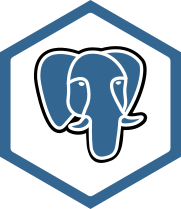
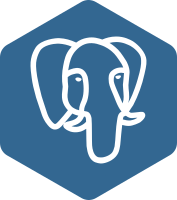
trocar de imagens

diff --git a/README.md b/README.md
@@ -1,20 +1,84 @@
-### Hi there 👋
+### Hi there, I'm Jesse - aka [codeSTACKr][website] 👋
+
+[![Website](https://img.shields.io/website?label=codeSTACKr.com&style=for-the-badge&url=https%3A%2F%2Fcodestackr.com)](https://codestackr.com)
+[![Twitter Follow](https://img.shields.io/twitter/follow/codeSTACKr?color=1DA1F2&logo=twitter&style=for-the-badge)](https://twitter.com/intent/follow?original_referer=https%3A%2F%2Fgithub.com%2FcodeSTACKr&screen_name=codeSTACKr)
+
+## I'm a Husband, Father, Developer, and Teacher!!
+
+- 🔭 I just launched my first course: [Become A VS Code SuperHero!][course]!
+- 🌱 I’m currently learning everything 🤣
+- 👯 I’m looking to collaborate with other content creators
+- 🥅 2020 Goals: Contribute more to Open Source projects
+- ⚡ Fun fact: I love to draw and play guitar / drums
+
+### Spotify Playing 🎧
+
+[<img src="https://now-playing-codestackr.vercel.app/api/spotify-playing" alt="codeSTACKr Spotify Playing" width="350" />](https://open.spotify.com/user/swyqyimdc12jajde4vpwd2x1b)
+
+### Connect with me:
+
+[<img align="left" alt="codeSTACKr.com" width="22px" src="https://raw.githubusercontent.com/iconic/open-iconic/master/svg/globe.svg" />][website]
+[<img align="left" alt="codeSTACKr | YouTube" width="22px" src="https://cdn.jsdelivr.net/npm/simple-icons@v3/icons/youtube.svg" />][youtube]
+[<img align="left" alt="codeSTACKr | Twitter" width="22px" src="https://cdn.jsdelivr.net/npm/simple-icons@v3/icons/twitter.svg" />][twitter]
+[<img align="left" alt="codeSTACKr | LinkedIn" width="22px" src="https://cdn.jsdelivr.net/npm/simple-icons@v3/icons/linkedin.svg" />][linkedin]
+[<img align="left" alt="codeSTACKr | Instagram" width="22px" src="https://cdn.jsdelivr.net/npm/simple-icons@v3/icons/instagram.svg" />][instagram]
+
+<br />
+
+### Languages and Tools:
+
+[<img align="left" alt="Visual Studio Code" width="26px" src="https://raw.githubusercontent.com/github/explore/80688e429a7d4ef2fca1e82350fe8e3517d3494d/topics/visual-studio-code/visual-studio-code.png" />][webdevplaylist]
+[<img align="left" alt="HTML5" width="26px" src="https://raw.githubusercontent.com/github/explore/80688e429a7d4ef2fca1e82350fe8e3517d3494d/topics/html/html.png" />][webdevplaylist]
+[<img align="left" alt="CSS3" width="26px" src="https://raw.githubusercontent.com/github/explore/80688e429a7d4ef2fca1e82350fe8e3517d3494d/topics/css/css.png" />][cssplaylist]
+[<img align="left" alt="Sass" width="26px" src="https://raw.githubusercontent.com/github/explore/80688e429a7d4ef2fca1e82350fe8e3517d3494d/topics/sass/sass.png" />][cssplaylist]
+[<img align="left" alt="JavaScript" width="26px" src="https://raw.githubusercontent.com/github/explore/80688e429a7d4ef2fca1e82350fe8e3517d3494d/topics/javascript/javascript.png" />][jsplaylist]
+[<img align="left" alt="React" width="26px" src="https://raw.githubusercontent.com/github/explore/80688e429a7d4ef2fca1e82350fe8e3517d3494d/topics/react/react.png" />][reactplaylist]
+[<img align="left" alt="Gatsby" width="26px" src="https://raw.githubusercontent.com/github/explore/e94815998e4e0713912fed477a1f346ec04c3da2/topics/gatsby/gatsby.png" />][webdevplaylist]
+[<img align="left" alt="GraphQL" width="26px" src="https://raw.githubusercontent.com/github/explore/80688e429a7d4ef2fca1e82350fe8e3517d3494d/topics/graphql/graphql.png" />][webdevplaylist]
+[<img align="left" alt="Node.js" width="26px" src="https://raw.githubusercontent.com/github/explore/80688e429a7d4ef2fca1e82350fe8e3517d3494d/topics/nodejs/nodejs.png" />][webdevplaylist]
+[<img align="left" alt="Deno" width="26px" src="https://raw.githubusercontent.com/github/explore/361e2821e2dea67711cde99c9c40ed357061cf27/topics/deno/deno.png" />][webdevplaylist]
+[<img align="left" alt="SQL" width="26px" src="https://raw.githubusercontent.com/github/explore/80688e429a7d4ef2fca1e82350fe8e3517d3494d/topics/sql/sql.png" />][webdevplaylist]
+[<img align="left" alt="MySQL" width="26px" src="https://raw.githubusercontent.com/github/explore/80688e429a7d4ef2fca1e82350fe8e3517d3494d/topics/mysql/mysql.png" />][webdevplaylist]
+[<img align="left" alt="MongoDB" width="26px" src="https://raw.githubusercontent.com/github/explore/80688e429a7d4ef2fca1e82350fe8e3517d3494d/topics/mongodb/mongodb.png" />][webdevplaylist]
+[<img align="left" alt="Git" width="26px" src="https://raw.githubusercontent.com/github/explore/80688e429a7d4ef2fca1e82350fe8e3517d3494d/topics/git/git.png" />][webdevplaylist]
+[<img align="left" alt="GitHub" width="26px" src="https://raw.githubusercontent.com/github/explore/78df643247d429f6cc873026c0622819ad797942/topics/github/github.png" />][webdevplaylist]
+[<img align="left" alt="Terminal" width="26px" src="https://raw.githubusercontent.com/github/explore/80688e429a7d4ef2fca1e82350fe8e3517d3494d/topics/terminal/terminal.png" />][webdevplaylist]
+
+<br />
+<br />
+
+
+<details>
+  <summary>:zap: Recent GitHub Activity</summary>
+  
+<!--START_SECTION:activity-->
+1. 💪 Opened PR [#259](https://github.com/florinpop17/app-ideas/pull/259) in [florinpop17/app-ideas](https://github.com/florinpop17/app-ideas)
+2. 🎉 Merged PR [#13](https://github.com/codeSTACKr/codeSTACKr/pull/13) in [codeSTACKr/codeSTACKr](https://github.com/codeSTACKr/codeSTACKr)
+3. 💪 Opened PR [#13](https://github.com/codeSTACKr/codeSTACKr/pull/13) in [codeSTACKr/codeSTACKr](https://github.com/codeSTACKr/codeSTACKr)
+4. 🎉 Merged PR [#12](https://github.com/codeSTACKr/codeSTACKr/pull/12) in [codeSTACKr/codeSTACKr](https://github.com/codeSTACKr/codeSTACKr)
+5. 💪 Opened PR [#12](https://github.com/codeSTACKr/codeSTACKr/pull/12) in [codeSTACKr/codeSTACKr](https://github.com/codeSTACKr/codeSTACKr)
+<!--END_SECTION:activity-->
+
+</details>
+
+<details>
+  <summary>:zap: GitHub Stats</summary>
+
+  <img align="left" alt="codeSTACKr's GitHub Stats" src="https://github-readme-stats.codestackr.vercel.app/api?username=codeSTACKr&show_icons=true&hide_border=true" />
+
+</details>
+
+[website]: https://codeSTACKr.com
+[course]: http://vsCodeHero.com
+[twitter]: https://twitter.com/codeSTACKr
+[youtube]: https://youtube.com/codeSTACKr
+[instagram]: https://instagram.com/codeSTACKr
+[linkedin]: https://linkedin.com/in/codeSTACKr
+[webdevplaylist]: https://www.youtube.com/playlist?list=PLkwxH9e_vrAJ0WbEsFA9W3I1W-g_BTsbt
+[jsplaylist]: https://www.youtube.com/playlist?list=PLkwxH9e_vrALRJKu7wfXby3MKeflhTu6B
+[cssplaylist]: https://www.youtube.com/playlist?list=PLkwxH9e_vrALSdvZuEh6gqQdmDoDIoqz4
+[reactplaylist]: https://www.youtube.com/playlist?list=PLkwxH9e_vrAK4TdffpxKY3QGyHCpxFcQ0
+
 
 <img src ="/images/postgresql.png" width="63" alt = "postgresql" align = left>
 <img src ='/images/mysql.png' width="63" alt = "postgresql" align = left>
-
-
-<!--
-**felipeyamane/felipeyamane** is a ✨ _special_ ✨ repository because its `README.md` (this file) appears on your GitHub profile.
-
-Here are some ideas to get you started:
-
-- 🔭 I’m currently working on ...
-- 🌱 I’m currently learning ...
-- 👯 I’m looking to collaborate on ...
-- 🤔 I’m looking for help with ...
-- 💬 Ask me about ...
-- 📫 How to reach me: ...
-- 😄 Pronouns: ...
-- ⚡ Fun fact: ...
--->
